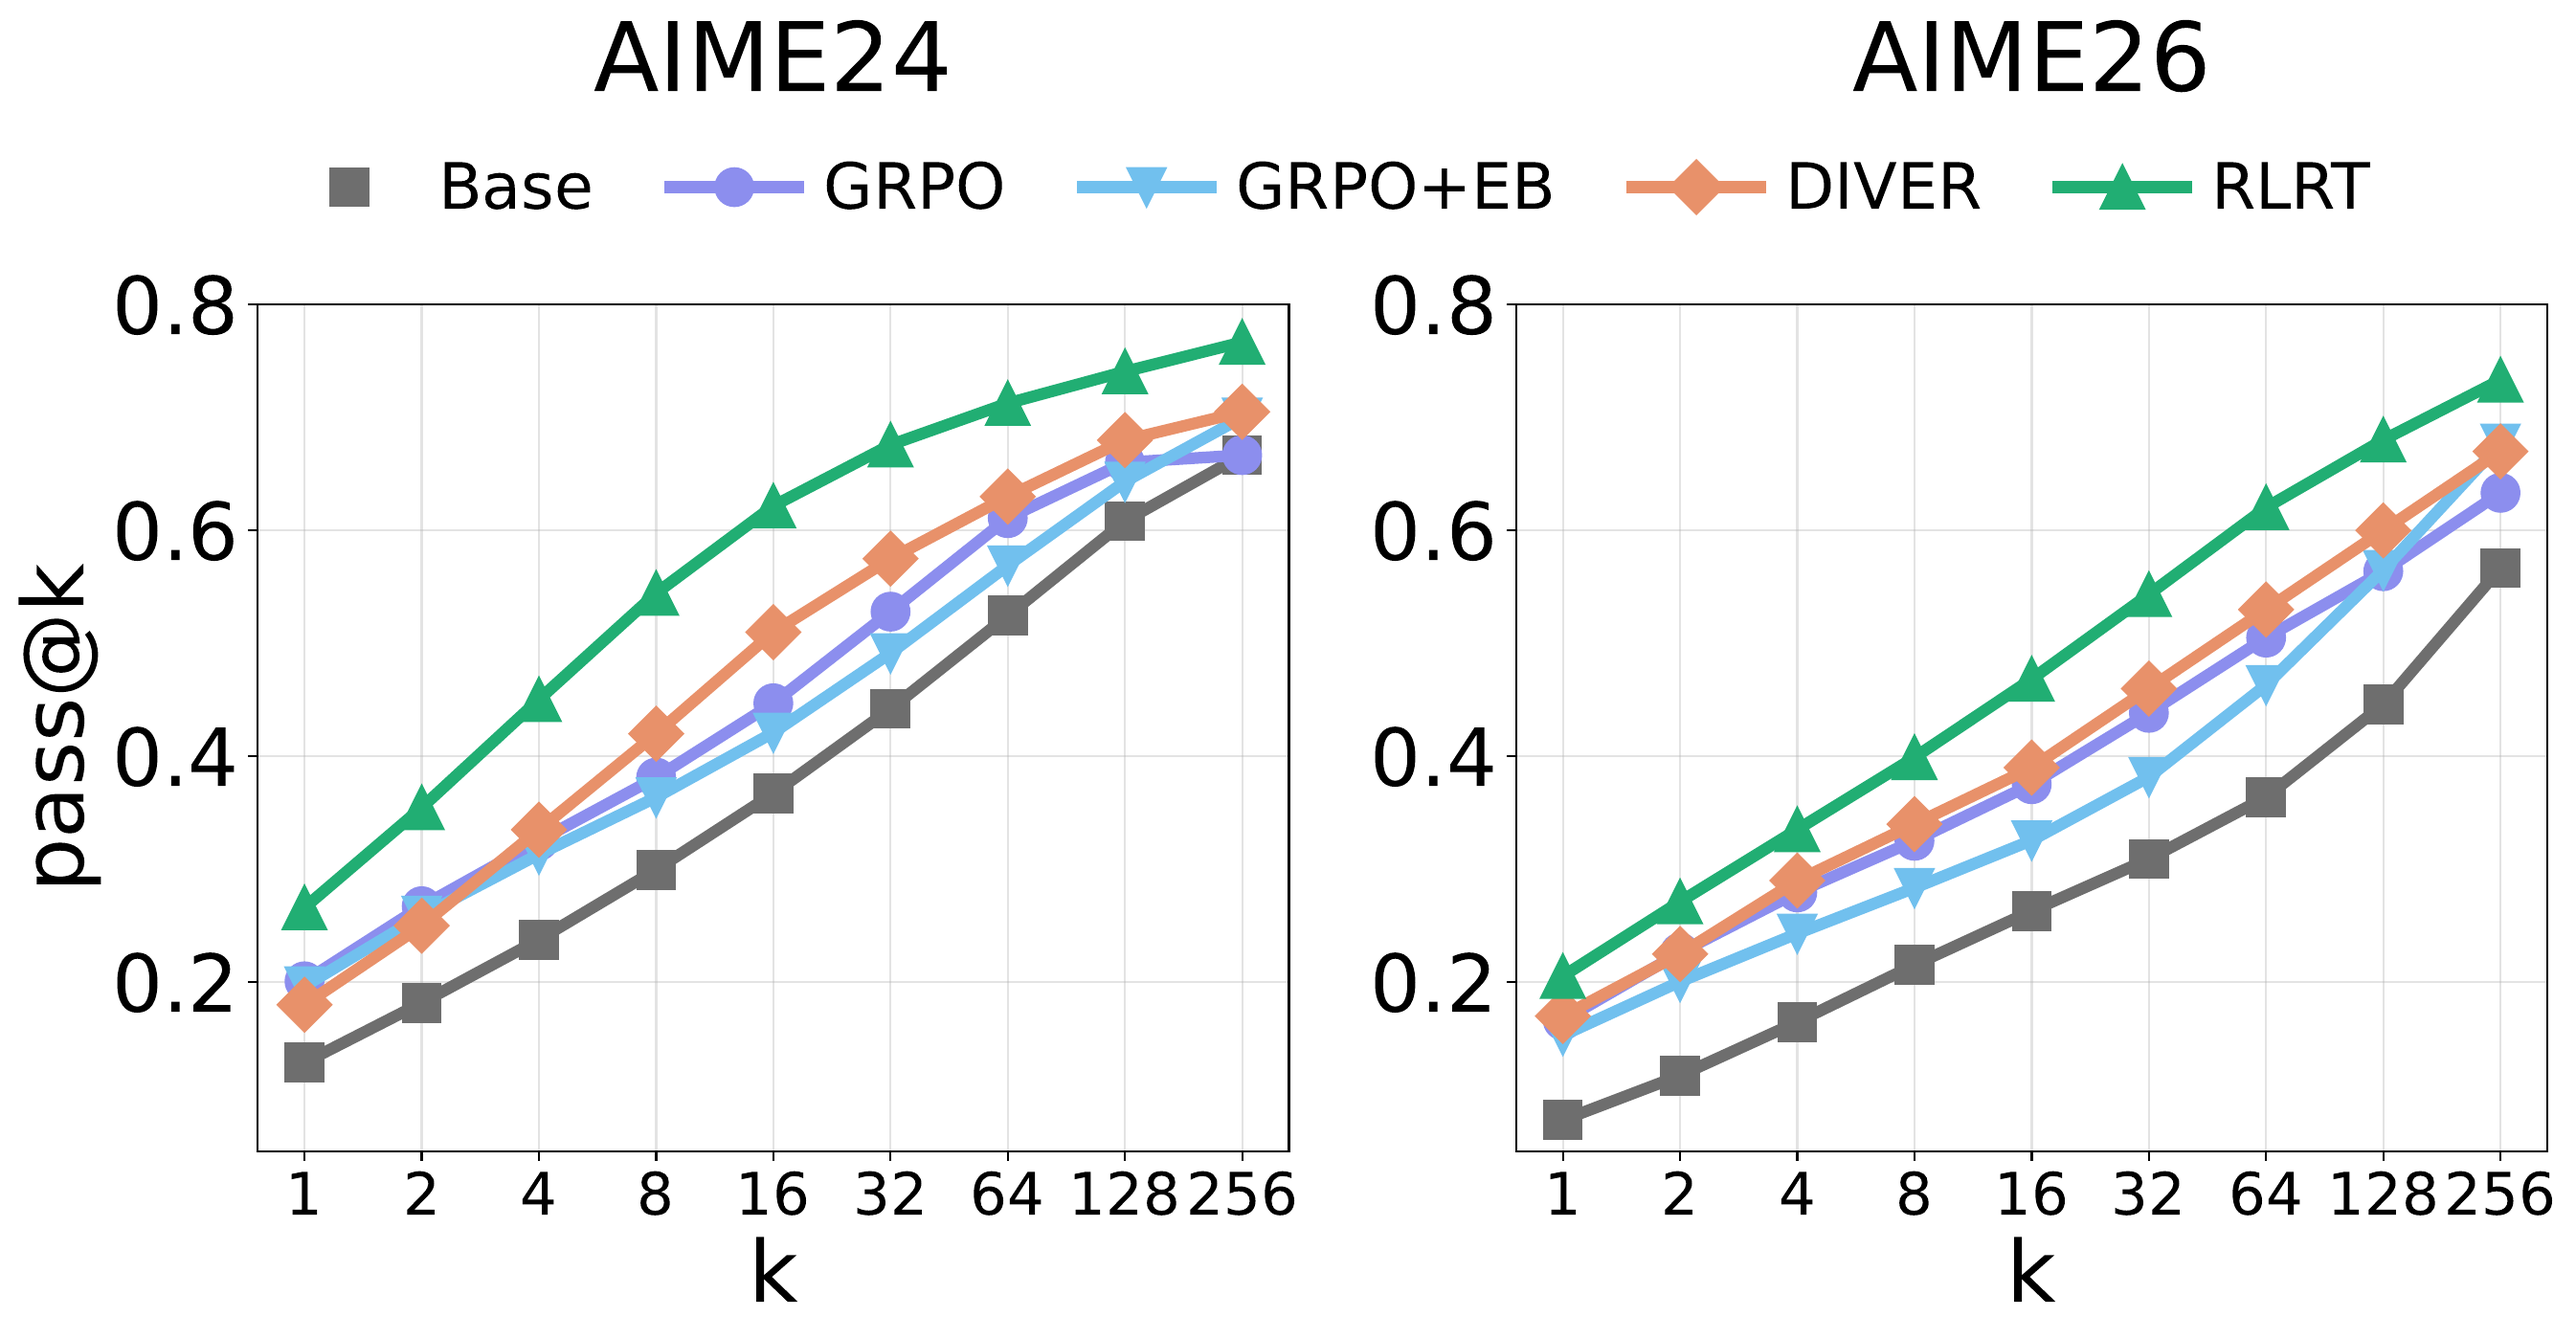
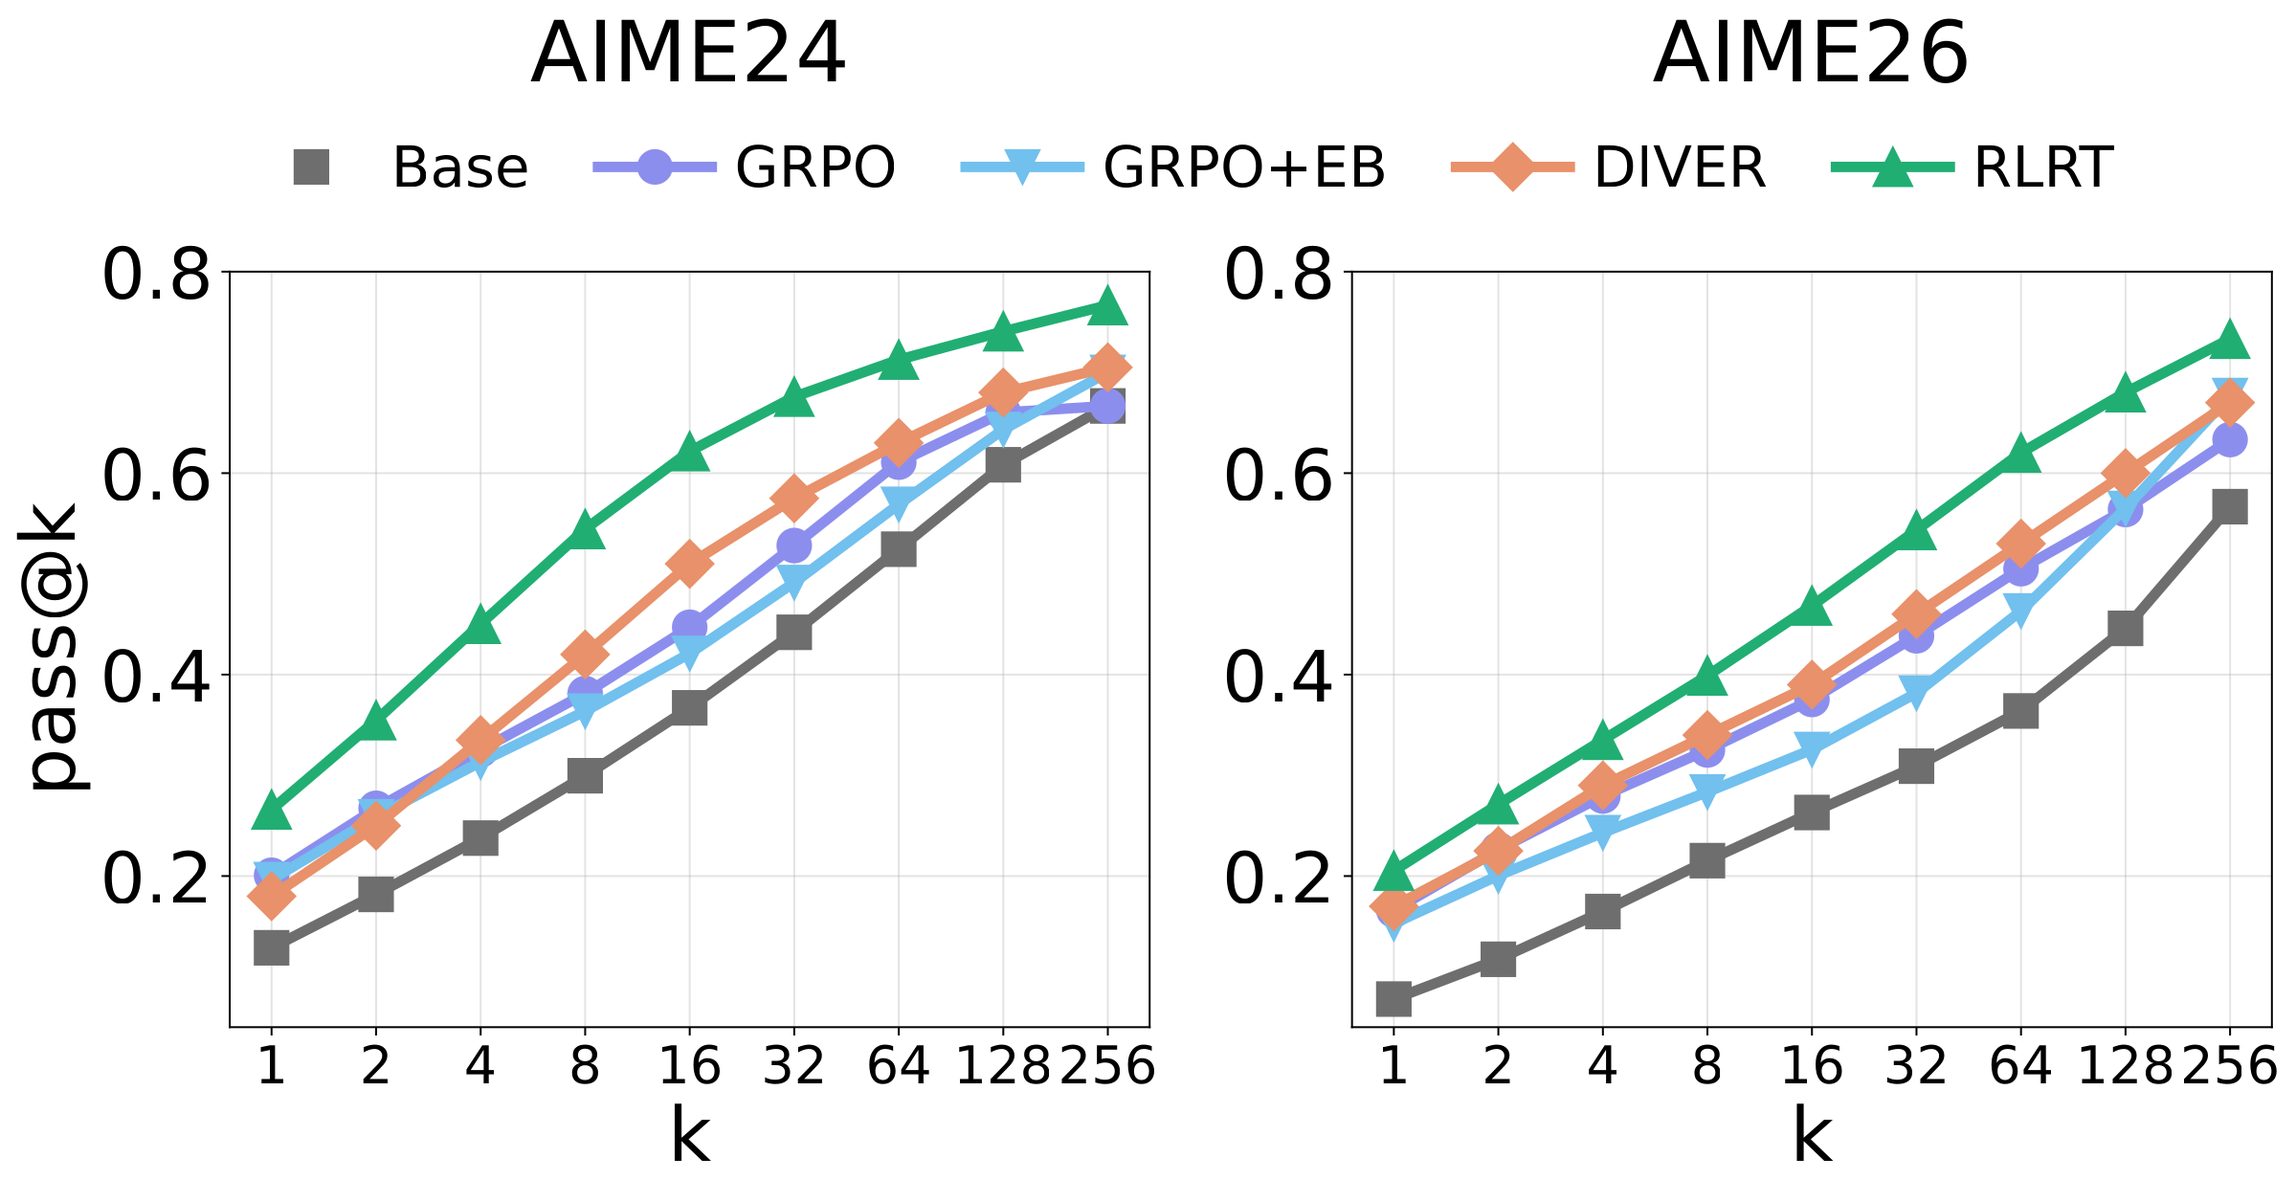
Replace remaining figures with high-resolution originals
Render the pipeline, training curves, benchmark bars, distribution-shift
panels, and pass@k plot from the original vector PDFs, and update the
concept illustration to the new version. Remove the low-resolution JPEGs
taken from the poster.

Claude-Session: https://claude.ai/code/session_01XM1bMFd3jwif5Ws6DNGgCK

diff --git a/index.html b/index.html
@@ -358,8 +358,8 @@
           We train on DAPO-Math-17k with four Qwen3 backbones and evaluate on six math benchmarks (AIME24/25/26, HMMT26, AMC23, MATH500). RLRT trains faster and outperforms GRPO and self-distillation baselines on all four backbones, by <strong>up to 18%</strong>.
         </p>
       </div>
-      <img src="static/images/training_curves.jpg" alt="Training score curves on four Qwen3 backbones" style="display: block; width: 100%; margin-bottom: 1.5rem;">
-      <img src="static/images/benchmark_bars.jpg" alt="Mean avg@16 across six math benchmarks" style="display: block; width: 100%;">
+      <img src="static/images/training_curves.png" alt="Training score curves on four Qwen3 backbones" style="display: block; width: 100%; margin-bottom: 1.5rem;">
+      <img src="static/images/benchmark_bars.png" alt="Mean avg@16 across six math benchmarks" style="display: block; width: 100%;">
     </div>
   </section>
 
